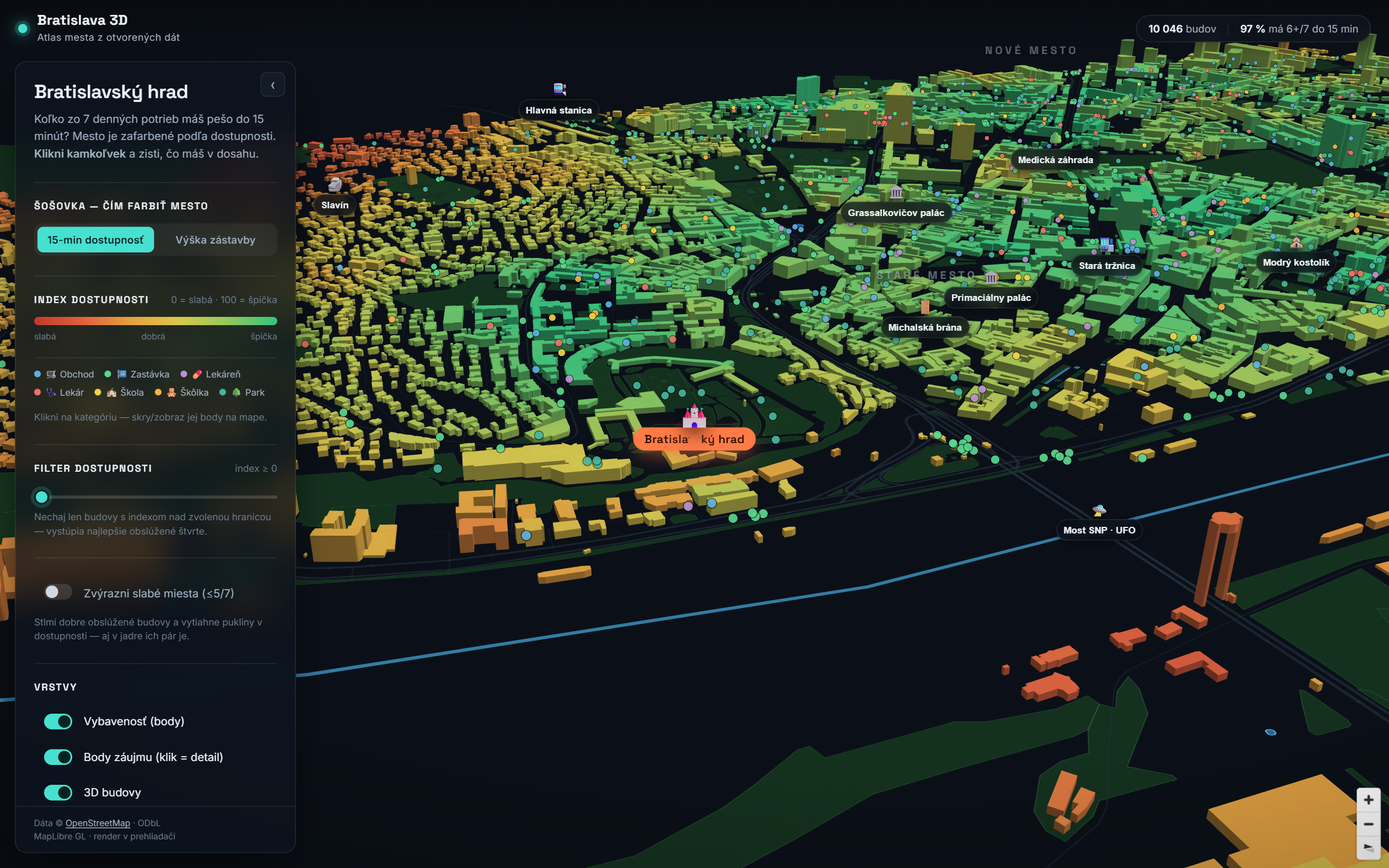
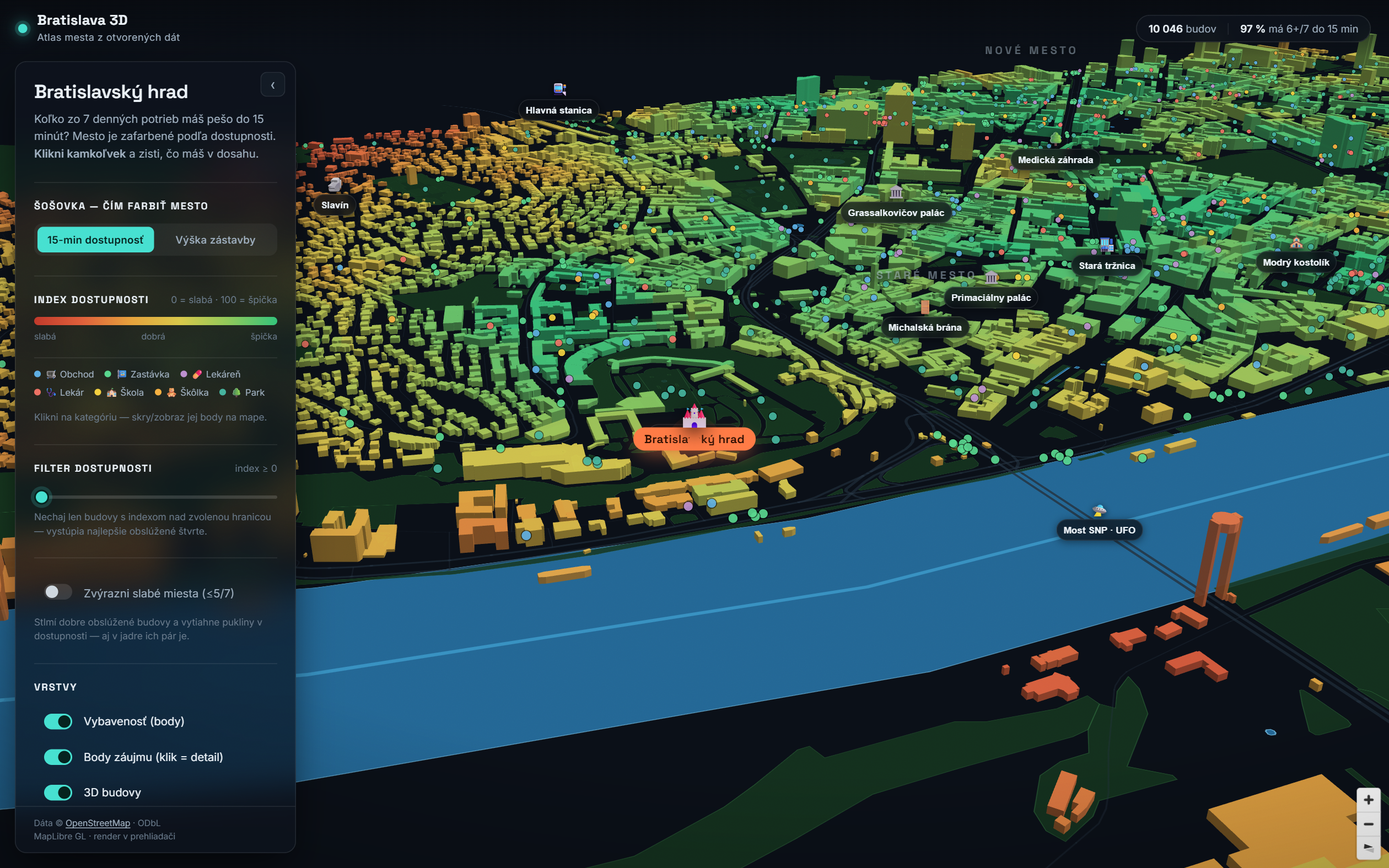
Dunaj ako rieka, nie čiara: os rozšírená bufferom na ~300 m
OSM má veľkú rieku ako multipolygónovú reláciu (fetch ju preskočil), ostala
len tenká os. make_danube.py z osi spraví realistickú vodnú plochu (shapely).

Changed region(s): [[0.0, 0.4356, 1.0, 0.9333]]

diff --git a/make_danube.py b/make_danube.py
@@ -1,0 +1,59 @@
+#!/usr/bin/env python3
+"""
+Dunaj ako plocha, nie čiara.
+
+V OSM je veľká rieka multipolygónová relácia, ktorú jednoduchý fetch preskočí —
+ostane len tenká os (`waterway=river`). Tu z tej osi spravíme realistickú vodnú
+plochu: os rieky rozšírime bufferom na skutočnú šírku (~300 m Dunaj, ~25 m kanál).
+Výsledok pridáme do water.geojson (idempotentne — staré buffery najprv odstránime).
+"""
+import json, os, math
+from shapely.geometry import LineString, MultiLineString, mapping
+from shapely.ops import linemerge, transform
+
+OUT = os.path.join(os.path.dirname(os.path.abspath(__file__)), "data")
+LAT0 = 48.138
+MX = 111320 * math.cos(math.radians(LAT0))
+MY = 111320
+
+WIDTHS = {"Dunaj": 150, "river": 60, "canal": 13, "stream": 6}  # polomer buffera (m)
+
+
+def to_m(x, y, z=None):
+    return (x * MX, y * MY)
+
+
+def to_deg(x, y, z=None):
+    return (x / MX, y / MY)
+
+
+rivers = json.load(open(os.path.join(OUT, "rivers.geojson"), encoding="utf-8"))
+
+# zoskup línie podľa „šírkovej triedy"
+groups = {}
+for f in rivers["features"]:
+    name = f["properties"].get("name", "")
+    kind = f["properties"].get("kind", "")
+    key = "Dunaj" if name == "Dunaj" else kind
+    w = WIDTHS.get(key, WIDTHS.get(kind, 8))
+    groups.setdefault(w, []).append(LineString(f["geometry"]["coordinates"]))
+
+buffers = []
+for w, lines in groups.items():
+    merged = linemerge(MultiLineString(lines)) if len(lines) > 1 else lines[0]
+    merged_m = transform(to_m, merged)
+    poly_m = merged_m.buffer(w, cap_style=2, join_style=1).simplify(4)
+    poly = transform(to_deg, poly_m)
+    geoms = [poly] if poly.geom_type == "Polygon" else list(poly.geoms)
+    for g in geoms:
+        coords = [[round(x, 6), round(y, 6)] for x, y in g.exterior.coords]
+        buffers.append({"type": "Feature",
+            "geometry": {"type": "Polygon", "coordinates": [coords]},
+            "properties": {"name": "", "src": "buffer"}})
+
+# vlož do water.geojson (vyhoď staré buffery)
+water = json.load(open(os.path.join(OUT, "water.geojson"), encoding="utf-8"))
+water["features"] = [f for f in water["features"] if f["properties"].get("src") != "buffer"]
+water["features"].extend(buffers)
+json.dump(water, open(os.path.join(OUT, "water.geojson"), "w", encoding="utf-8"), separators=(",", ":"))
+print(f"pridaných {len(buffers)} vodných plôch z osí riek; water.geojson teraz {len(water['features'])} prvkov")

diff --git a/README.md b/README.md
@@ -49,8 +49,11 @@ ale aj v ňom sú rozdiely a pukliny — a tie nástroj odhalí.
 ```bash
 python fetch_all.py          # budovy, zeleň, voda, ulice, hranice → data/*.geojson
 python fill_gaps.py          # doplní dlaždice, ktoré pod záťažou zlyhali
+python fetch_water_rivers.py # Dunaj + jazerá (plochy) a rieky/kanály (línie)
+python make_danube.py        # os Dunaja → reálna šírka (~300 m) bufferom (shapely)
 python fetch_amenities.py    # 7 kategórií vybavenosti → amenities.geojson
 python compute_access.py     # 15-min skóre (sc 0–7, idx 0–100) do buildings.geojson
+python fetch_wiki.py         # fotka + popis pamiatok zo sk.wikipedia
 ```
 
 Verejné Overpass mirrory pod záťažou vracajú 504, preto sťahovanie:
